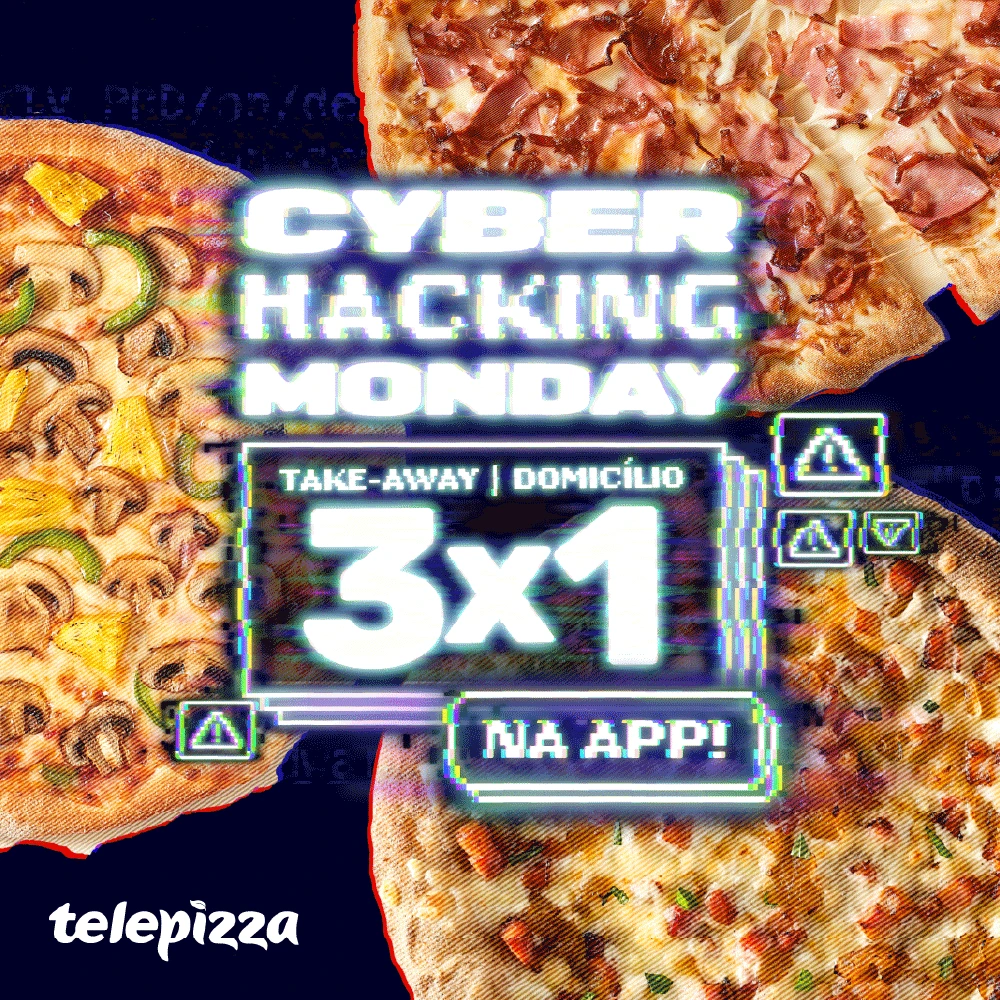
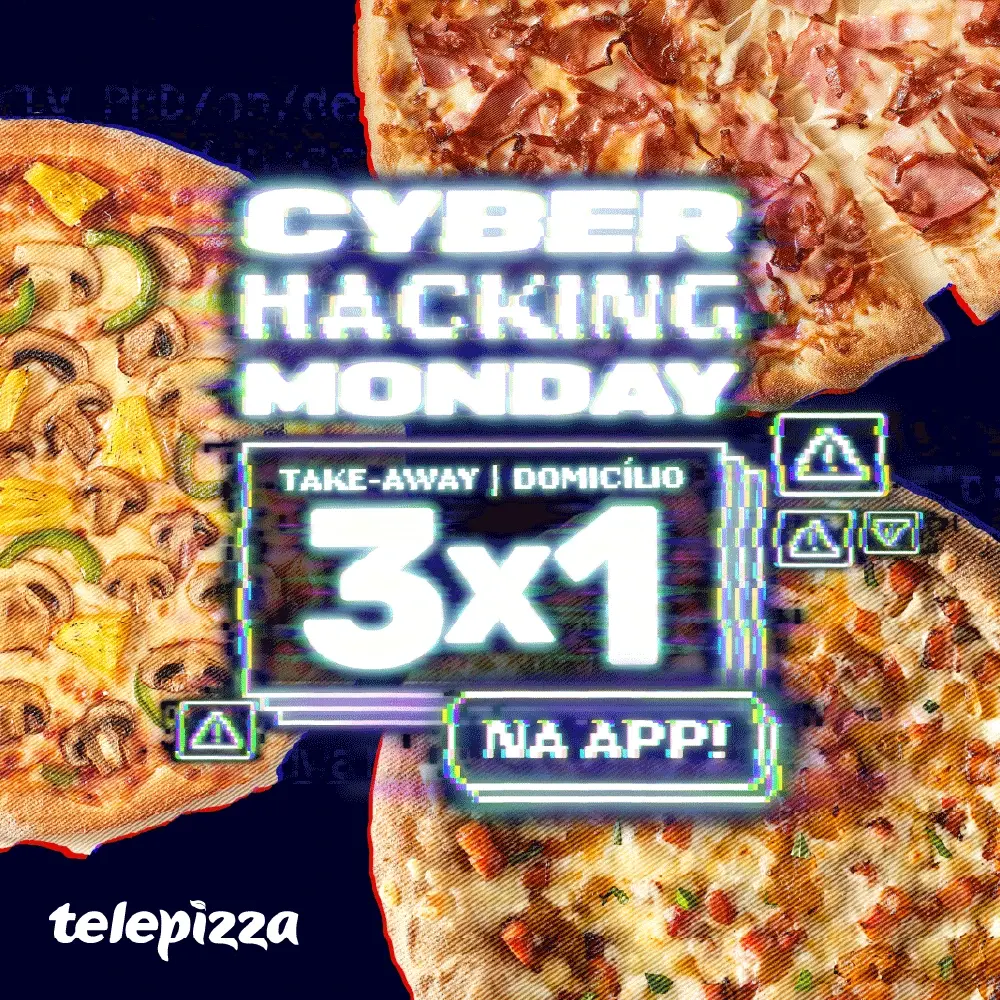
Add files via upload

diff --git a/01-telepizza-project.html b/01-telepizza-project.html
@@ -95,7 +95,7 @@
         <div class="page" data-v-51992d94="" >
             <main data-v-51992d94="">
             <div class="hero" data-v-51992d94="">
-                <img id="slide-down" src="./telepizza/telepizza-banner.png" alt="" sizes="(max-width: 375px) 500px, (max-width: 768px) 600px, (max-width: 1200px) 1000px, (max-width: 1500px) 1500px, 2500px" srcset="./telepizza/telepizza-banner.png 500w, ./telepizza/telepizza-banner.png 600w, ./telepizza/telepizza-banner.png 1000w, ./telepizza/telepizza-banner.png 1500w, ./telepizza/telepizza-banner.png 2500w" data-v-51992d94=""></div> 
+                <img id="slide-down" src="./telepizza/telepizza-banner.webp" alt="" sizes="(max-width: 375px) 500px, (max-width: 768px) 600px, (max-width: 1200px) 1000px, (max-width: 1500px) 1500px, 2500px"  data-v-51992d94=""></div> 
                 
                 
                 
@@ -135,16 +135,16 @@
     <div class="gallery" data-v-51992d94="">
         <img src="./telepizza/mcbooktpz.webp" loading="lazy"  size="l" class="img" data-v-51992d94="">
     
-        <img src="./telepizza/tpziimg27.png" loading="lazy" sizes="(max-width: 375px) 500px, (max-width: 768px) 600px, (max-width: 1200px) 1000px, (max-width: 1500px) 1500px, 2500px"  size="l" class="img" data-v-51992d94="">
+        <img src="./telepizza/tpziimg27.webp" loading="lazy" sizes="(max-width: 375px) 500px, (max-width: 768px) 600px, (max-width: 1200px) 1000px, (max-width: 1500px) 1500px, 2500px"  size="l" class="img" data-v-51992d94="">
        
-      <img src="./telepizza/tablettpz.png" loading="lazy" sizes="(max-width: 375px) 500px, (max-width: 768px) 600px, (max-width: 1200px) 1000px, (max-width: 1500px) 1500px, 2500px"  size="l" class="img" data-v-51992d94="">
+      <img src="./telepizza/tablettpz.webp" loading="lazy" sizes="(max-width: 375px) 500px, (max-width: 768px) 600px, (max-width: 1200px) 1000px, (max-width: 1500px) 1500px, 2500px"  size="l" class="img" data-v-51992d94="">
        
-        <img src="./telepizza/menutpz.png" loading="lazy" sizes="(max-width: 375px) 500px, (max-width: 768px) 600px, (max-width: 1200px) 1000px, (max-width: 1500px) 1500px, 2500px"  size="l" class="img" data-v-51992d94="">
+        <img src="./telepizza/menutpz.webp" loading="lazy" sizes="(max-width: 375px) 500px, (max-width: 768px) 600px, (max-width: 1200px) 1000px, (max-width: 1500px) 1500px, 2500px"  size="l" class="img" data-v-51992d94="">
         <img src="./telepizza/tpziimg13.webp" loading="lazy" sizes="(max-width: 375px) 500px, (max-width: 768px) 600px, (max-width: 1200px) 1000px, (max-width: 1500px) 1500px, 2500px"  size="l" class="img" data-v-51992d94="">
         
      
         <img src="./telepizza/tpziimg12.webp" loading="lazy" sizes="(max-width: 375px) 500px, (max-width: 768px) 600px, (max-width: 1200px) 1000px, (max-width: 1500px) 1500px, 2500px" size="l" class="img" data-v-51992d94="">
-        <img src="./telepizza/rodizio2x1banner.png" loading="lazy" sizes="(max-width: 375px) 500px, (max-width: 768px) 600px, (max-width: 1200px) 1000px, (max-width: 1500px) 1500px, 2500px" size="l" class="img" data-v-51992d94="">
+        <img src="./telepizza/rodizio2x1banner.webp" loading="lazy" sizes="(max-width: 375px) 500px, (max-width: 768px) 600px, (max-width: 1200px) 1000px, (max-width: 1500px) 1500px, 2500px" size="l" class="img" data-v-51992d94="">
         <img src="./telepizza/tpziimg24.webp" loading="lazy" sizes="(max-width: 375px) 500px, (max-width: 768px) 600px, (max-width: 1200px) 1000px, (max-width: 1500px) 1500px, 2500px" size="l" class="img" data-v-51992d94="">  
         
         <div class="marquee-animation"  >
@@ -156,17 +156,17 @@
         </div> 
         
         
-        <img src="./telepizza/doubleterçasmobile.png" loading="lazy" sizes="(max-width: 375px) 500px, (max-width: 768px) 600px, (max-width: 1200px) 1000px, (max-width: 1500px) 1500px, 2500px"  size="s" class="img" data-v-51992d94="">
+        <img src="./telepizza/doubleterçasmobile.webp" loading="lazy" sizes="(max-width: 375px) 500px, (max-width: 768px) 600px, (max-width: 1200px) 1000px, (max-width: 1500px) 1500px, 2500px"  size="s" class="img" data-v-51992d94="">
       
         <img src="./telepizza/tpziimg3.webp" loading="lazy" sizes="(max-width: 375px) 500px, (max-width: 768px) 600px, (max-width: 1200px) 500px, (max-width: 1500px) 750px, 1500px"  size="s" class="img" data-v-51992d94="">
         <img src="./telepizza/tpziimg11.webp" loading="lazy" sizes="(max-width: 375px) 500px, (max-width: 768px) 600px, (max-width: 1200px) 1000px, (max-width: 1500px) 1500px, 2500px" size="s" class="img" data-v-51992d94="">        
-        <img src="./telepizza/supermenu-carnaval.png" loading="lazy" sizes="(max-width: 375px) 500px, (max-width: 768px) 600px, (max-width: 1200px) 1000px, (max-width: 1500px) 1500px, 2500px" size="s" class="img" data-v-51992d94="">          
+        <img src="./telepizza/supermenu-carnaval.webp" loading="lazy" sizes="(max-width: 375px) 500px, (max-width: 768px) 600px, (max-width: 1200px) 1000px, (max-width: 1500px) 1500px, 2500px" size="s" class="img" data-v-51992d94="">          
         <img src="./telepizza/supermenudiadosnamorados.webp" loading="lazy" sizes="(max-width: 375px) 500px, (max-width: 768px) 600px, (max-width: 1200px) 1000px, (max-width: 1500px) 1500px, 2500px" size="s" class="img" data-v-51992d94="">   
-        <img src="./telepizza/tpziimg16.png" loading="lazy" sizes="(max-width: 375px) 500px, (max-width: 768px) 600px, (max-width: 1200px) 1000px, (max-width: 1500px) 1500px, 2500px" size="s" class="img" data-v-51992d94="">
+        <img src="./telepizza/tpziimg16.webp" loading="lazy" sizes="(max-width: 375px) 500px, (max-width: 768px) 600px, (max-width: 1200px) 1000px, (max-width: 1500px) 1500px, 2500px" size="s" class="img" data-v-51992d94="">
         <img src="./telepizza/tpziimg4.webp" loading="lazy" sizes="(max-width: 375px) 500px, (max-width: 768px) 600px, (max-width: 1200px) 1000px, (max-width: 1500px) 1500px, 2500px" size="s" class="img" data-v-51992d94="">
         <img src="./telepizza/tpziimg5.webp" loading="lazy" sizes="(max-width: 375px) 500px, (max-width: 768px) 600px, (max-width: 1200px) 1000px, (max-width: 1500px) 1500px, 2500px" size="s" class="img" data-v-51992d94="">
         <img src="./telepizza/tpziimg25.webp" loading="lazy" sizes="(max-width: 375px) 500px, (max-width: 768px) 600px, (max-width: 1200px) 1000px, (max-width: 1500px) 1500px, 2500px"  size="s" class="img" data-v-51992d94="">
-        <img src="./telepizza/segundasa10.png" loading="lazy" sizes="(max-width: 375px) 500px, (max-width: 768px) 600px, (max-width: 1200px) 1000px, (max-width: 1500px) 1500px, 2500px"  size="s" class="img" data-v-51992d94="">
+        <img src="./telepizza/segundasa10.webp" loading="lazy" sizes="(max-width: 375px) 500px, (max-width: 768px) 600px, (max-width: 1200px) 1000px, (max-width: 1500px) 1500px, 2500px"  size="s" class="img" data-v-51992d94="">
         
         <img src="./telepizza/tpziimg9.webp" loading="lazy" sizes="(max-width: 375px) 500px, (max-width: 768px) 600px, (max-width: 1200px) 1000px, (max-width: 1500px) 1500px, 2500px"  size="s" class="img" data-v-51992d94="">
         <img src="./telepizza/tpziimg8.webp" loading="lazy" sizes="(max-width: 375px) 500px, (max-width: 768px) 600px, (max-width: 1200px) 1000px, (max-width: 1500px) 1500px, 2500px"  size="s" class="img" data-v-51992d94="">
@@ -176,27 +176,27 @@
         <img src="./telepizza/tpziimg21.webp" loading="lazy" sizes="(max-width: 375px) 500px, (max-width: 768px) 600px, (max-width: 1200px) 1000px, (max-width: 1500px) 1500px, 2500px"  size="s" class="img" data-v-51992d94="">
 
         
-        <img src="./telepizza/semanaloucas.png" loading="lazy" sizes="(max-width: 375px) 500px, (max-width: 768px) 600px, (max-width: 1200px) 1000px, (max-width: 1500px) 1500px, 2500px"  size="s" class="img" data-v-51992d94="">
+        <img src="./telepizza/semanaloucas.webp" loading="lazy" sizes="(max-width: 375px) 500px, (max-width: 768px) 600px, (max-width: 1200px) 1000px, (max-width: 1500px) 1500px, 2500px"  size="s" class="img" data-v-51992d94="">
         <img src="./telepizza/tpziimg6.webp" loading="lazy" sizes="(max-width: 375px) 500px, (max-width: 768px) 600px, (max-width: 1200px) 1000px, (max-width: 1500px) 1500px, 2500px"  size="s" class="img" data-v-51992d94="">
        
-        <img src="./telepizza/10ptsregisto.png" loading="lazy" sizes="(max-width: 375px) 500px, (max-width: 768px) 600px, (max-width: 1200px) 1000px, (max-width: 1500px) 1500px, 2500px"  size="s" class="img" data-v-51992d94="">
+        <img src="./telepizza/10ptsregisto.webp" loading="lazy" sizes="(max-width: 375px) 500px, (max-width: 768px) 600px, (max-width: 1200px) 1000px, (max-width: 1500px) 1500px, 2500px"  size="s" class="img" data-v-51992d94="">
         <img src="./telepizza/gamaburger.webp" loading="lazy" sizes="(max-width: 375px) 500px, (max-width: 768px) 600px, (max-width: 1200px) 1000px, (max-width: 1500px) 1500px, 2500px"  size="s" class="img" data-v-51992d94="">
        
 
 
-       <img src="./telepizza/logo+telepizza.png" loading="lazy" sizes="(max-width: 375px) 500px, (max-width: 768px) 600px, (max-width: 1200px) 1000px, (max-width: 1500px) 1500px, 2500px"  size="l" class="img" data-v-51992d94="">
+       <img src="./telepizza/logo+telepizza.webp" loading="lazy" sizes="(max-width: 375px) 500px, (max-width: 768px) 600px, (max-width: 1200px) 1000px, (max-width: 1500px) 1500px, 2500px"  size="l" class="img" data-v-51992d94="">
        <img src="./telepizza/tpziimg23.webp" loading="lazy" sizes="(max-width: 375px) 500px, (max-width: 768px) 600px, (max-width: 1200px) 1000px, (max-width: 1500px) 1500px, 2500px"  size="l" class="img" data-v-51992d94="">
        <div class="marquee-animation"  >
-        <img src="./telepizza/marqueetpz.png" loading="lazy"  >
-        <img src="./telepizza/marqueetpz.png" loading="lazy"  >
-        <img src="./telepizza/marqueetpz.png" loading="lazy"  >
-        <img src="./telepizza/marqueetpz.png" loading="lazy"  >
-        <img src="./telepizza/marqueetpz.png" loading="lazy"  >
+        <img src="./telepizza/marqueetpz.webp" loading="lazy"  >
+        <img src="./telepizza/marqueetpz.webp" loading="lazy"  >
+        <img src="./telepizza/marqueetpz.webp" loading="lazy"  >
+        <img src="./telepizza/marqueetpz.webp" loading="lazy"  >
+        <img src="./telepizza/marqueetpz.webp" loading="lazy"  >
     </div> 
       
-       <img src="./telepizza/newsletters.png" loading="lazy" sizes="(max-width: 375px) 500px, (max-width: 768px) 600px, (max-width: 1200px) 1000px, (max-width: 1500px) 1500px, 2500px"  size="l" class="img" data-v-51992d94="">
-        <img src="./telepizza/123menos.png" loading="lazy" sizes="(max-width: 375px) 500px, (max-width: 768px) 600px, (max-width: 1200px) 1000px, (max-width: 1500px) 1500px, 2500px"  size="l" class="img" data-v-51992d94="">
-        <img src="./telepizza/tobecontinued.png" loading="lazy" sizes="(max-width: 375px) 500px, (max-width: 768px) 600px, (max-width: 1200px) 1000px, (max-width: 1500px) 1500px, 2500px"  size="l" class="img" data-v-51992d94="">
+       <img src="./telepizza/newsletters.webp" loading="lazy" sizes="(max-width: 375px) 500px, (max-width: 768px) 600px, (max-width: 1200px) 1000px, (max-width: 1500px) 1500px, 2500px"  size="l" class="img" data-v-51992d94="">
+        <img src="./telepizza/123menos.webp" loading="lazy" sizes="(max-width: 375px) 500px, (max-width: 768px) 600px, (max-width: 1200px) 1000px, (max-width: 1500px) 1500px, 2500px"  size="l" class="img" data-v-51992d94="">
+        <img src="./telepizza/tobecontinued.webp" loading="lazy" sizes="(max-width: 375px) 500px, (max-width: 768px) 600px, (max-width: 1200px) 1000px, (max-width: 1500px) 1500px, 2500px"  size="l" class="img" data-v-51992d94="">
      
     </div> 
     

diff --git a/16-timeandspace.html b/16-timeandspace.html
@@ -95,7 +95,7 @@
         <div class="page" data-v-51992d94="" >
             <main data-v-51992d94="">
             <div class="hero" data-v-51992d94="">
-                <img id="slide-down" src="./timeandspace/timeandspace-banner.png" alt="" sizes="(max-width: 375px) 500px, (max-width: 768px) 600px, (max-width: 1200px) 1000px, (max-width: 1500px) 1500px, 2500px"  data-v-51992d94=""></div> 
+                <img id="slide-down" src="./timeandspace/timeandspace-banner.webp" alt="" sizes="(max-width: 375px) 500px, (max-width: 768px) 600px, (max-width: 1200px) 1000px, (max-width: 1500px) 1500px, 2500px"  data-v-51992d94=""></div> 
                 
                 
                 
@@ -127,12 +127,12 @@
   </div></div> 
     
     <div class="gallery" data-v-51992d94="">
-             <img src="./timeandspace/timeandspace-banner1.png" loading="lazy" sizes="(max-width: 375px) 500px, (max-width: 768px) 600px, (max-width: 1200px) 1000px, (max-width: 1500px) 1500px, 2500px"  size="l" class="img" data-v-51992d94="">
-             <img src="./timeandspace/timeandspace-process.png" loading="lazy" sizes="(max-width: 375px) 500px, (max-width: 768px) 600px, (max-width: 1200px) 1000px, (max-width: 1500px) 1500px, 2500px"  size="l" class="img" data-v-51992d94="">
-             <img src="./timeandspace/timeandspace-moodboard.png" loading="lazy" sizes="(max-width: 375px) 500px, (max-width: 768px) 600px, (max-width: 1200px) 1000px, (max-width: 1500px) 1500px, 2500px"  size="l" class="img" data-v-51992d94="">
-            <img src="./timeandspace/timeandspace-banner3.png" loading="lazy" sizes="(max-width: 375px) 500px, (max-width: 768px) 600px, (max-width: 1200px) 1000px, (max-width: 1500px) 1500px, 2500px"  size="s" class="img" data-v-51992d94="">
-            <img src="./timeandspace/timeandspace-banner4.png" loading="lazy" sizes="(max-width: 375px) 500px, (max-width: 768px) 600px, (max-width: 1200px) 1000px, (max-width: 1500px) 1500px, 2500px"  size="s" class="img" data-v-51992d94="">
-            <img src="./timeandspace/timeandspace-banner5.png" loading="lazy" sizes="(max-width: 375px) 500px, (max-width: 768px) 600px, (max-width: 1200px) 1000px, (max-width: 1500px) 1500px, 2500px"  size="l" class="img" data-v-51992d94="">
+             <img src="./timeandspace/timeandspace-banner1.webp" loading="lazy" sizes="(max-width: 375px) 500px, (max-width: 768px) 600px, (max-width: 1200px) 1000px, (max-width: 1500px) 1500px, 2500px"  size="l" class="img" data-v-51992d94="">
+             <img src="./timeandspace/timeandspace-process.webp" loading="lazy" sizes="(max-width: 375px) 500px, (max-width: 768px) 600px, (max-width: 1200px) 1000px, (max-width: 1500px) 1500px, 2500px"  size="l" class="img" data-v-51992d94="">
+             <img src="./timeandspace/timeandspace-moodboard.webp" loading="lazy" sizes="(max-width: 375px) 500px, (max-width: 768px) 600px, (max-width: 1200px) 1000px, (max-width: 1500px) 1500px, 2500px"  size="l" class="img" data-v-51992d94="">
+            <img src="./timeandspace/timeandspace-banner3.webp" loading="lazy" sizes="(max-width: 375px) 500px, (max-width: 768px) 600px, (max-width: 1200px) 1000px, (max-width: 1500px) 1500px, 2500px"  size="s" class="img" data-v-51992d94="">
+            <img src="./timeandspace/timeandspace-banner4.webp" loading="lazy" sizes="(max-width: 375px) 500px, (max-width: 768px) 600px, (max-width: 1200px) 1000px, (max-width: 1500px) 1500px, 2500px"  size="s" class="img" data-v-51992d94="">
+            <img src="./timeandspace/timeandspace-banner5.webp" loading="lazy" sizes="(max-width: 375px) 500px, (max-width: 768px) 600px, (max-width: 1200px) 1000px, (max-width: 1500px) 1500px, 2500px"  size="l" class="img" data-v-51992d94="">
          
         </div> 
    

diff --git a/index.html b/index.html
@@ -189,7 +189,7 @@ window.addEventListener('scroll', function() {
     <main data-v-cardsmain="">
 <!--FIRST THREE-->
         <a scale="2" type="large" haslink="/01-telepizza-project.html" class="card" style="color:#0050b7" data-v-cardsinfo="" data-v-cardsmain="" href="/01-telepizza-project.html">
-            <div class="image" data-v-cardsinfo=""><img src="./telepizza/telepizza-banner.png" alt="" loading="lazy" sizes="(max-width: 375px) 250px, (max-width: 768px) 300px, (max-width: 1200px) 500px, (max-width: 1500px) 750px, 1500px" srcset="./telepizza/telepizza-banner.png 250w, ./telepizza/telepizza-banner.png 300w, ./telepizza/telepizza-banner.png 500w, ./telepizza/telepizza-banner.png 750w, ./telepizza/telepizza-banner.png 1500w" data-v-cardsinfo=""></div> 
+            <div class="image" data-v-cardsinfo=""><img src="./telepizza/telepizza-banner.webp" alt="" loading="lazy" sizes="(max-width: 375px) 250px, (max-width: 768px) 300px, (max-width: 1200px) 500px, (max-width: 1500px) 750px, 1500px" data-v-cardsinfo=""></div> 
 
         <div class="meta" data-v-cardsinfo=""><p class="title" data-v-cardsinfo="">SOME OF MY WORK AT TELEPIZZA PT</p> 
           <p class="year" data-v-cardsinfo="">2024-2025</p></div></a> <!----> 
@@ -307,7 +307,7 @@ window.addEventListener('scroll', function() {
 
   <!--timeandspace-->
       <a  scale="1" type="small" haslink="/16-timeandspace.html"  class="card" style="color:#000" data-v-cardsinfo="" data-v-cardsmain="" href="./16-timeandspace.html">
-        <div class="image" data-v-cardsinfo=""><img src="./timeandspace/timeandspace.png" alt="" loading="lazy" sizes="(max-width: 375px) 250px, (max-width: 768px) 300px, (max-width: 1200px) 500px, (max-width: 1500px) 750px, 1500px" data-v-cardsinfo=""></div>
+        <div class="image" data-v-cardsinfo=""><img src="./timeandspace/timeandspace.webp" alt="" loading="lazy" sizes="(max-width: 375px) 250px, (max-width: 768px) 300px, (max-width: 1200px) 500px, (max-width: 1500px) 750px, 1500px" data-v-cardsinfo=""></div>
         
  <div class="meta" data-v-cardsinfo=""><p class="title" data-v-cardsinfo="">LOST IN TIME</p> <p class="year" data-v-cardsinfo="">2019</p></div></a> 
 
